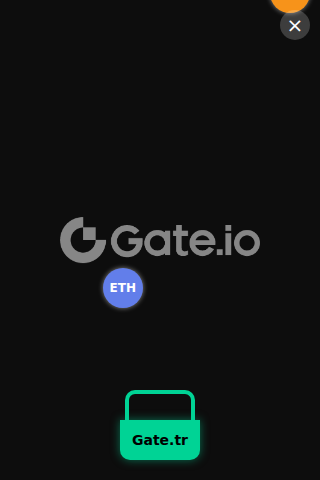
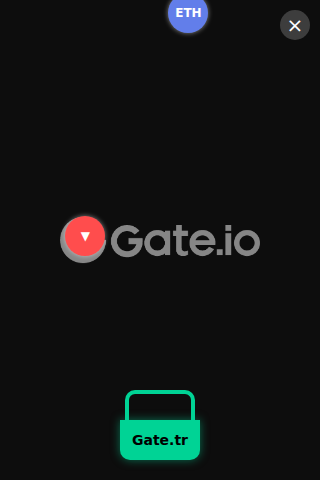
Enhance Gate.tr Crypto Catcher interstitial ad
- Add "Red Candle" (Bear Market) obstacles that cause instant loss
- Add "+1" particle effects on catch
- Add basket tilt animation based on movement
- Implement dynamic difficulty (speed increases)
- Ensure background logo is white and visible
- Remove on-screen HUD counters

diff --git a/gate_interstitial/gate_crypto_catcher.html b/gate_interstitial/gate_crypto_catcher.html
@@ -71,6 +71,7 @@
             font-size: 14px;
             box-shadow: 0 0 10px rgba(0, 211, 149, 0.5);
             cursor: grab;
+            transition: transform 0.1s ease-out;
         }
 
         #basket::before {
@@ -104,6 +105,22 @@
         .crypto.eth { background: #627EEA; color: white; }
         .crypto.usdt { background: #26A17B; color: white; }
         .crypto.gt { background: #00D395; color: black; }
+        .crypto.bear { background: #FF4D4D; color: white; }
+
+        .particle {
+            position: absolute;
+            font-weight: bold;
+            color: #00D395;
+            font-size: 20px;
+            pointer-events: none;
+            animation: floatUp 0.8s ease-out forwards;
+            z-index: 20;
+        }
+
+        @keyframes floatUp {
+            0% { transform: translateY(0) scale(1); opacity: 1; }
+            100% { transform: translateY(-30px) scale(1.5); opacity: 0; }
+        }
 
         #overlay {
             position: absolute;
@@ -176,6 +193,8 @@
         let gameActive = true;
         let spawnInterval;
         let fallingItems = [];
+        let gameSpeedMultiplier = 1;
+        let lastMouseX = 0;
 
         // Cryptos to spawn
         const cryptos = [
@@ -196,6 +215,13 @@
             if (newLeft > containerRect.width - basketWidth / 2) newLeft = containerRect.width - basketWidth / 2;
 
             basket.style.left = newLeft + 'px';
+
+            // Tilt effect
+            const deltaX = x - lastMouseX;
+            const tilt = Math.max(Math.min(deltaX * 0.5, 20), -20);
+            basket.style.transform = `translateX(-50%) rotate(${tilt}deg)`;
+
+            lastMouseX = x;
         }
 
         // Mouse/Touch events
@@ -212,10 +238,18 @@
             if (!gameActive) return;
 
             const crypto = document.createElement('div');
-            const data = cryptos[Math.floor(Math.random() * cryptos.length)];
+            let isBear = false;
 
-            crypto.classList.add('crypto', data.type);
-            crypto.textContent = data.text;
+            // 20% chance to spawn a bear (obstacle)
+            if (Math.random() < 0.2) {
+                isBear = true;
+                crypto.classList.add('crypto', 'bear');
+                crypto.innerHTML = '&#9660;'; // Down arrow
+            } else {
+                const data = cryptos[Math.floor(Math.random() * cryptos.length)];
+                crypto.classList.add('crypto', data.type);
+                crypto.textContent = data.text;
+            }
 
             const containerWidth = gameContainer.offsetWidth;
             const startLeft = Math.random() * (containerWidth - 40);
@@ -227,8 +261,19 @@
 
             fallingItems.push({
                 element: crypto,
-                speed: 3 + Math.random() * 2 // Random speed between 3 and 5
+                speed: (3 + Math.random() * 2) * gameSpeedMultiplier,
+                isBear: isBear
             });
+        }
+
+        function createParticle(x, y) {
+            const particle = document.createElement('div');
+            particle.classList.add('particle');
+            particle.textContent = '+1';
+            particle.style.left = x + 'px';
+            particle.style.top = y + 'px';
+            gameContainer.appendChild(particle);
+            setTimeout(() => particle.remove(), 800);
         }
 
         // Game loop
@@ -246,29 +291,43 @@
 
                 // Check overlap
                 if (
-                    itemRect.bottom >= basketRect.top + 10 && // Allow a bit of overlap into the basket opening
+                    itemRect.bottom >= basketRect.top + 10 &&
                     itemRect.top < basketRect.bottom &&
                     itemRect.right >= basketRect.left &&
                     itemRect.left <= basketRect.right
                 ) {
                     // Caught!
-                    caught++;
-                    item.element.remove();
-                    fallingItems.splice(index, 1);
+                    if (item.isBear) {
+                        // Caught a bear - Lose!
+                        endGame(false);
+                    } else {
+                        caught++;
+                        // Speed up slightly
+                        gameSpeedMultiplier += 0.05;
 
-                    if (caught >= 5) {
-                        endGame(true);
+                        // Visual effect
+                        createParticle(itemRect.left, itemRect.top);
+
+                        item.element.remove();
+                        fallingItems.splice(index, 1);
+
+                        if (caught >= 5) {
+                            endGame(true);
+                        }
                     }
                 }
                 // Missed
                 else if (newTop > gameContainer.offsetHeight) {
-                    missed++;
+                    // Missed normal items count against you, missing bears is good
+                    if (!item.isBear) {
+                        missed++;
+                        if (missed >= 3) {
+                            endGame(false);
+                        }
+                    }
+
                     item.element.remove();
                     fallingItems.splice(index, 1);
-
-                    if (missed >= 3) {
-                        endGame(false);
-                    }
                 }
             });
 
